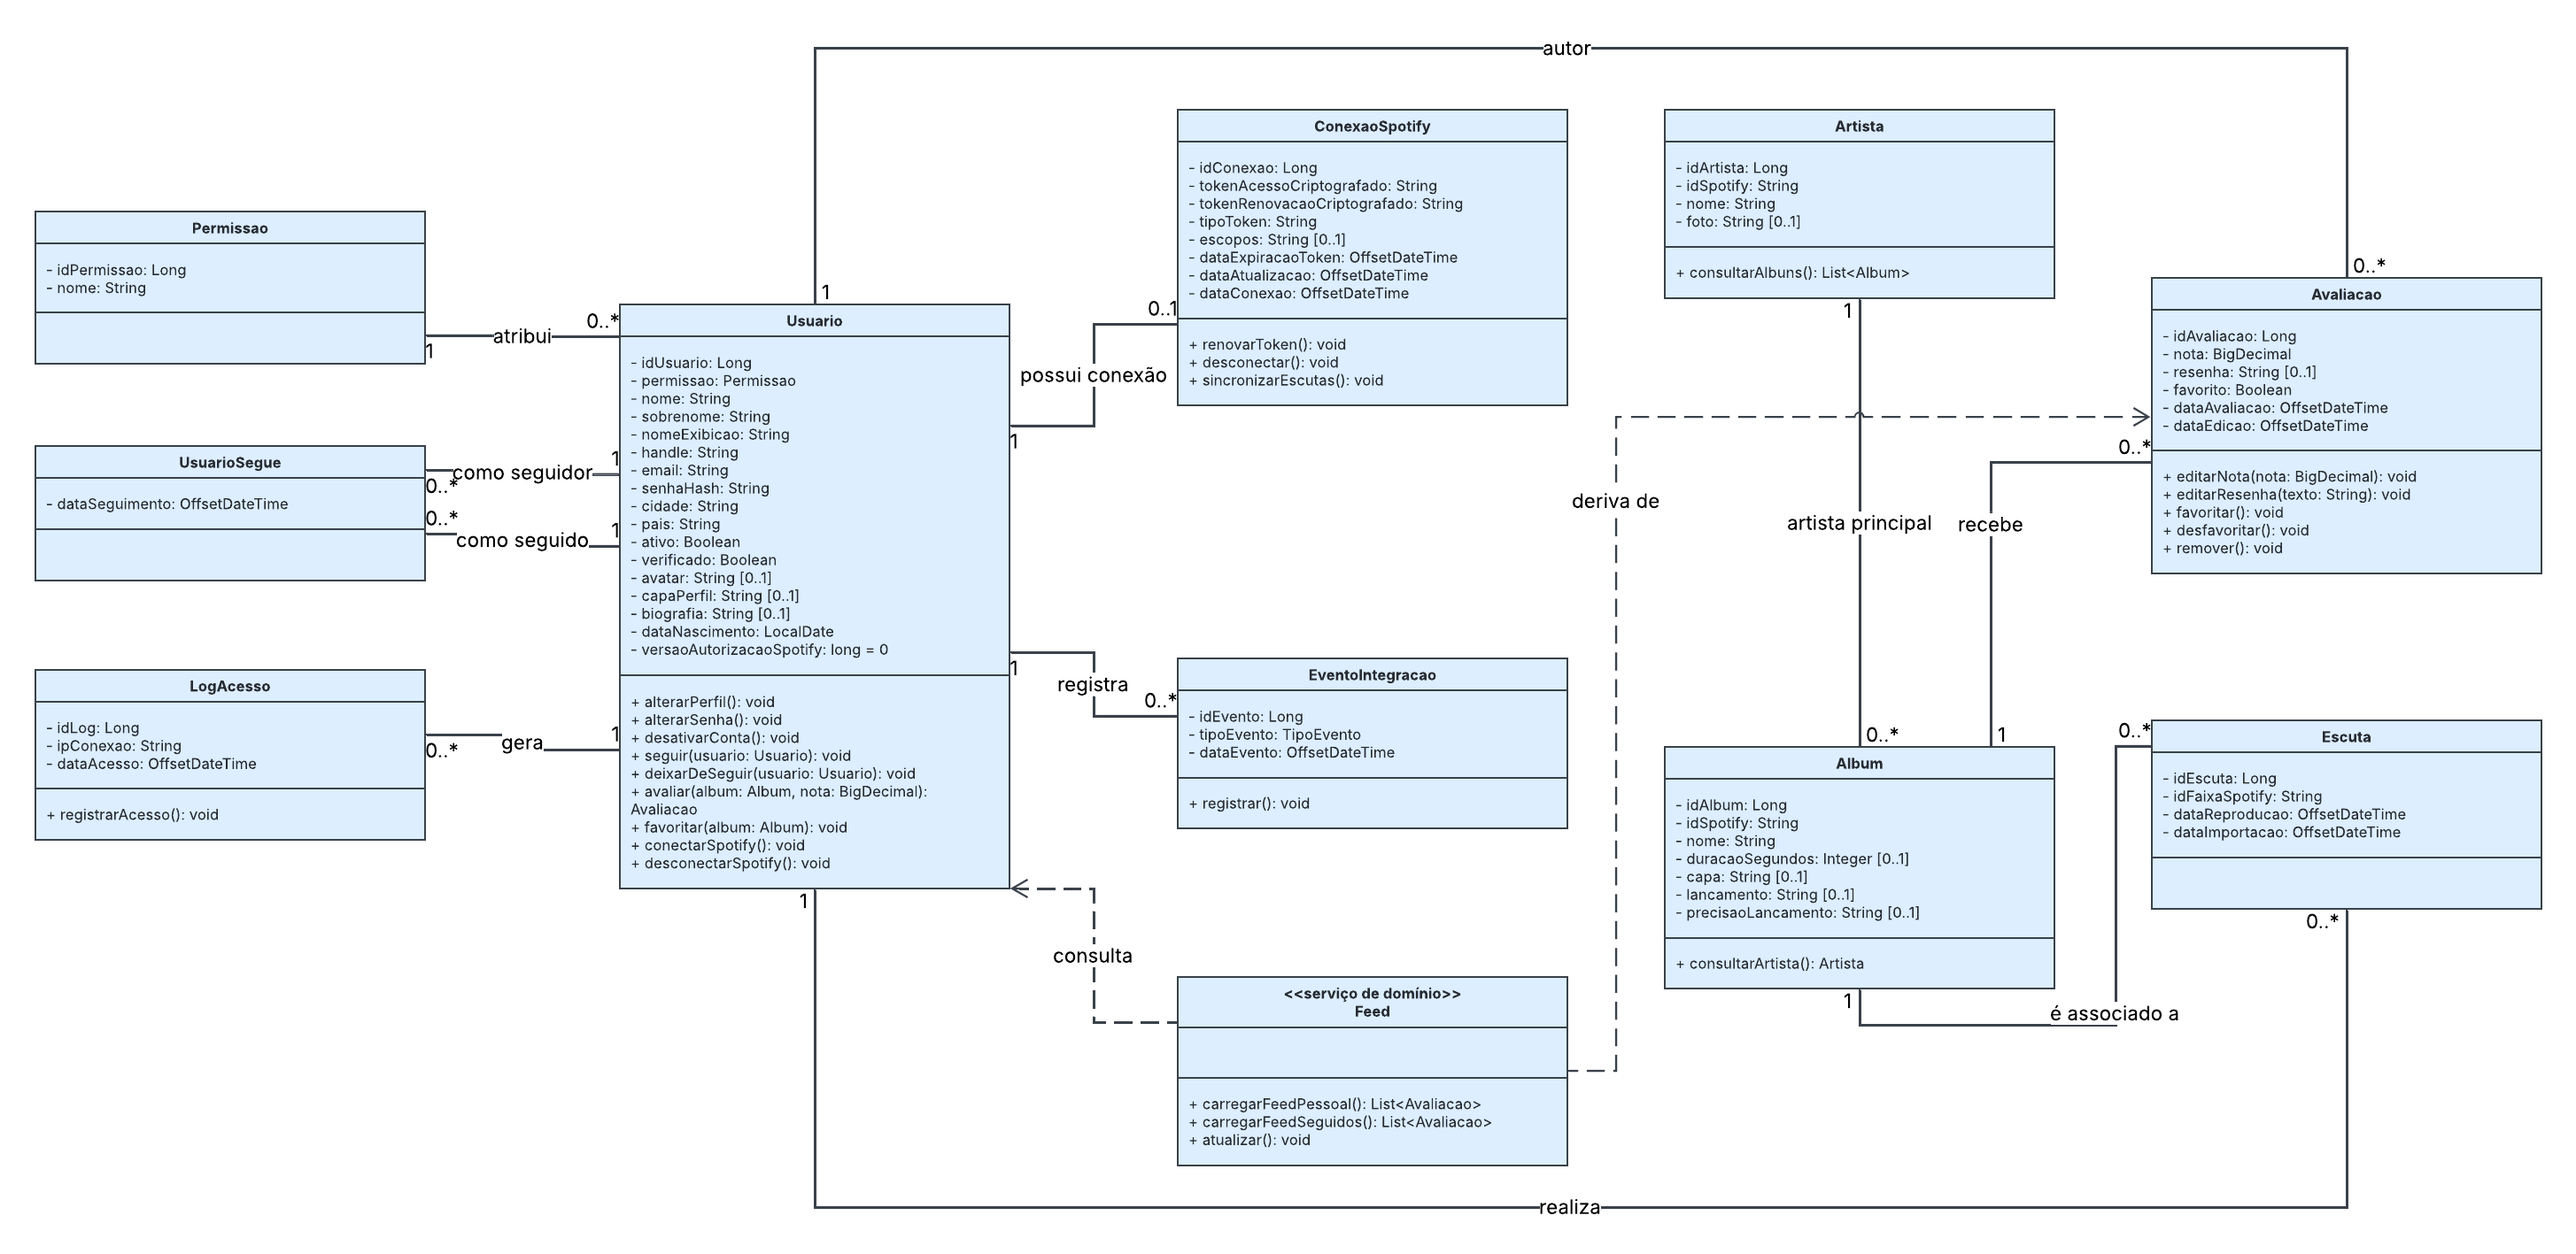
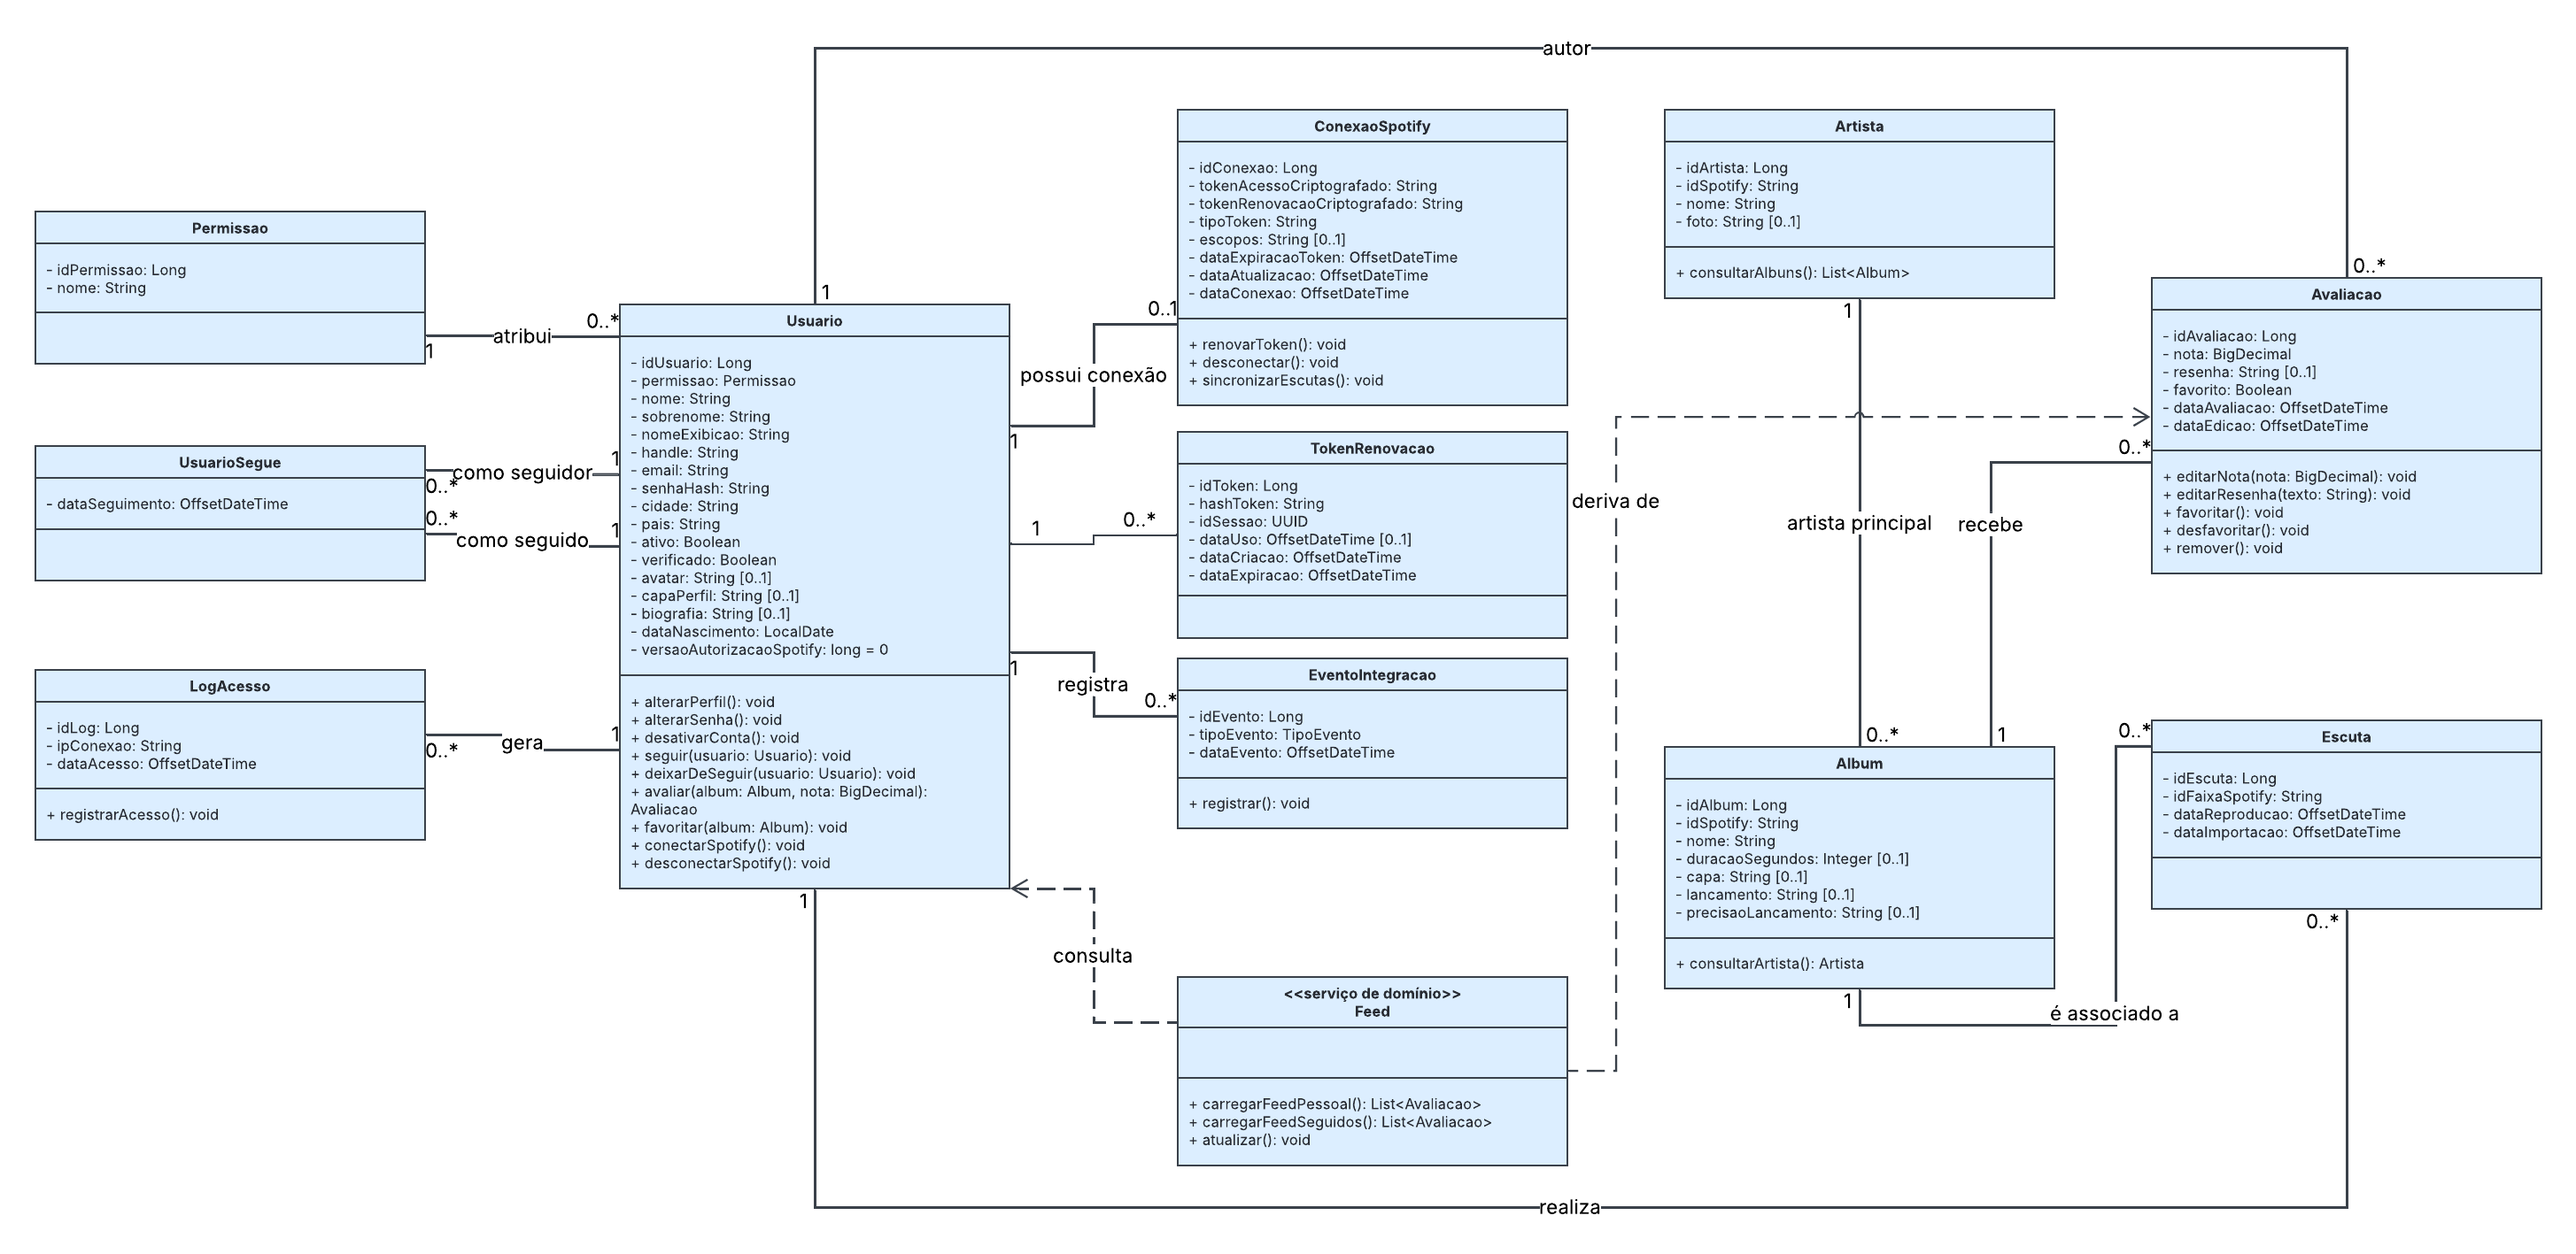
docs(auth): document refresh token sessions and diagrams

Changed region(s): [[0.4331, 0.3416, 0.6188, 0.5279]]

diff --git a/docs/persistence.md b/docs/persistence.md
@@ -29,16 +29,37 @@ A coluna `users.spotify_authorization_version` é `BIGINT NOT NULL DEFAULT 0`.
 Não há aplicação automática das migrações. O schema completo já inclui a coluna
 para bancos novos; não execute a migração 002 novamente nesses bancos.
 
-A sessão persistente de login exige `db/migrations/003_create_refresh_tokens.sql`
-em bancos existentes. Execute uma vez, após as migrações 001 e 002 e antes de
-iniciar a versão que emite refresh tokens. A tabela `refresh_tokens` guarda uma
-linha por dispositivo, somente com o hash SHA-256 (hexadecimal) do token opaco
-entregue ao cliente, e é removida em cascata com o usuário. A validade é por
-inatividade: cada renovação troca o hash e estende `expires_at` por 30 dias.
-O schema completo já inclui a tabela para bancos novos.
+A persistência de refresh tokens exige as migrations
+`003_create_refresh_tokens.sql` e `004_add_refresh_token_sessions.sql`, nessa
+ordem, após 001 e 002. A migration 004 também deve ser aplicada em bancos de
+validação que já receberam 003: cada registro anterior recebe uma sessão própria.
+O schema consolidado já inclui todas as colunas para bancos novos.
+
+Cada dispositivo possui uma família identificada por `session_id`. A rotação
+marca o hash anterior com `used_at` e cria um sucessor com validade de 30 dias
+de inatividade. Somente hashes SHA-256 de segredos aleatórios são armazenados.
+Reutilizar qualquer token consumido remove toda a família, preservando outros
+dispositivos. Logout aceita tanto o token atual quanto um token consumido.
+
+Emissão, rotação e revogação usam o mesmo bloqueio no usuário. Duas renovações
+simultâneas do mesmo token têm um único sucesso, mas a segunda detecta reutilização
+e encerra a família, inclusive o token emitido pela primeira. O cliente deverá
+coordenar renovações concorrentes. A perda da resposta de renovação exige novo
+login se o cliente tentar reutilizar o token anterior.
+
+`rotate` rejeita uma transação externa e abre sua própria unidade transacional:
+a revogação é confirmada antes da resposta 401, sem `noRollbackFor` genérico.
+O resultado contém apenas o ID do usuário e o token bruto, ocultado no
+`toString()`. Não retorna entidades JPA.
+
+Hashes históricos devem permanecer enquanto a sessão puder ser renovada.
+O expurgo automático de famílias inteiramente expiradas segue pendente; apagar
+apenas registros consumidos perderia a detecção de reutilização. A política
+de prazo absoluto e a opção lembrar-me também ficam para a integração HTTP.
 
 ```powershell
 psql -h <host> -p <porta> -U <usuario> -d <banco> -v ON_ERROR_STOP=1 -f db/migrations/003_create_refresh_tokens.sql
+psql -h <host> -p <porta> -U <usuario> -d <banco> -v ON_ERROR_STOP=1 -f db/migrations/004_add_refresh_token_sessions.sql
 ```
 
 O schema completo está versionado em `db/tables.sql` e deve ser
@@ -78,8 +99,8 @@ Na CI, o job `test` também inicia um serviço PostgreSQL 17 descartável e impo
 somente a tabela Spotify vazia e a coluna `users.spotify_authorization_version`
 desse banco de teste; então aplica, em ordem, `001_create_spotify_connection.sql`
 e `002_add_spotify_authorization_version.sql`. Também remove a tabela vazia
-`refresh_tokens` e aplica `003_create_refresh_tokens.sql`. Em seguida, executa explicitamente
-`ExistingSchemaIntegrationTest` com a propriedade opt-in habilitada. Falhas de SQL,
+`refresh_tokens` e aplica `003_create_refresh_tokens.sql` e `004_add_refresh_token_sessions.sql`. Em seguida, executa explicitamente
+`ExistingSchemaIntegrationTest` e `RefreshTokenPostgresTest` com a propriedade opt-in habilitada. O segundo reutiliza os cenários de refresh e valida o schema sem criá-lo ou removê-lo. Falhas de SQL,
 persistência, reconexão ou concorrência falham o mesmo job da suíte padrão. Isso
 valida o rollout em teste; cada ambiente de deploy ainda exige aplicação manual
 das migrações, em ordem, antes da nova versão da aplicação.

diff --git a/docs/api/authentication.md b/docs/api/authentication.md
@@ -148,3 +148,15 @@ Também cobre a lista de rotas públicas, métodos não permitidos anonimamente,
 despachos de erro, preflight e respostas CORS em requisições autenticadas e anônimas.
 Os testes de claims conferem a assinatura dos tokens e incluem um controle positivo
 assinado com a chave configurada no contexto, evitando rejeições por chave divergente.
+
+
+## Persistência de refresh tokens
+
+A camada interna armazena hashes e histórico por sessão de dispositivo.
+Reutilização encerra somente a sessão afetada; logout interno reconhece tokens
+consumidos. O resultado da renovação não retorna entidades JPA.
+O contrato HTTP permanece inalterado: login ainda não emite refresh token;
+cookies, lembrar-me, /refresh e /logout HTTP ficam para a próxima entrega.
+A validade interna é de 30 dias por inatividade. Transporte, CSRF/CORS, prazo
+absoluto e revogação na troca de senha ainda precisam ser integrados.
+Access tokens existentes não são revogados por essa camada.

diff --git a/README.md b/README.md
@@ -161,3 +161,13 @@ As limitações descritas permitem avaliar o estado real da implementação.
 ---
 
 Desenvolvido como projeto acadêmico e base para uma futura plataforma completa de avaliação musical.
+
+
+## Persistência de sessões de autenticação
+
+A camada de refresh tokens guarda hashes e histórico por sessão de dispositivo,
+com rotação e revogação serializadas. Reutilizar um token consumido encerra a
+sessão afetada; as demais sessões são preservadas. Execute as migrations 003 e
+004 em bancos existentes, conforme [persistência](docs/persistence.md).
+Login, refresh, logout e lembrar-me via HTTP ainda estão pendentes.
+A CI exercita a rotação e a concorrência tanto em H2 quanto em PostgreSQL.
